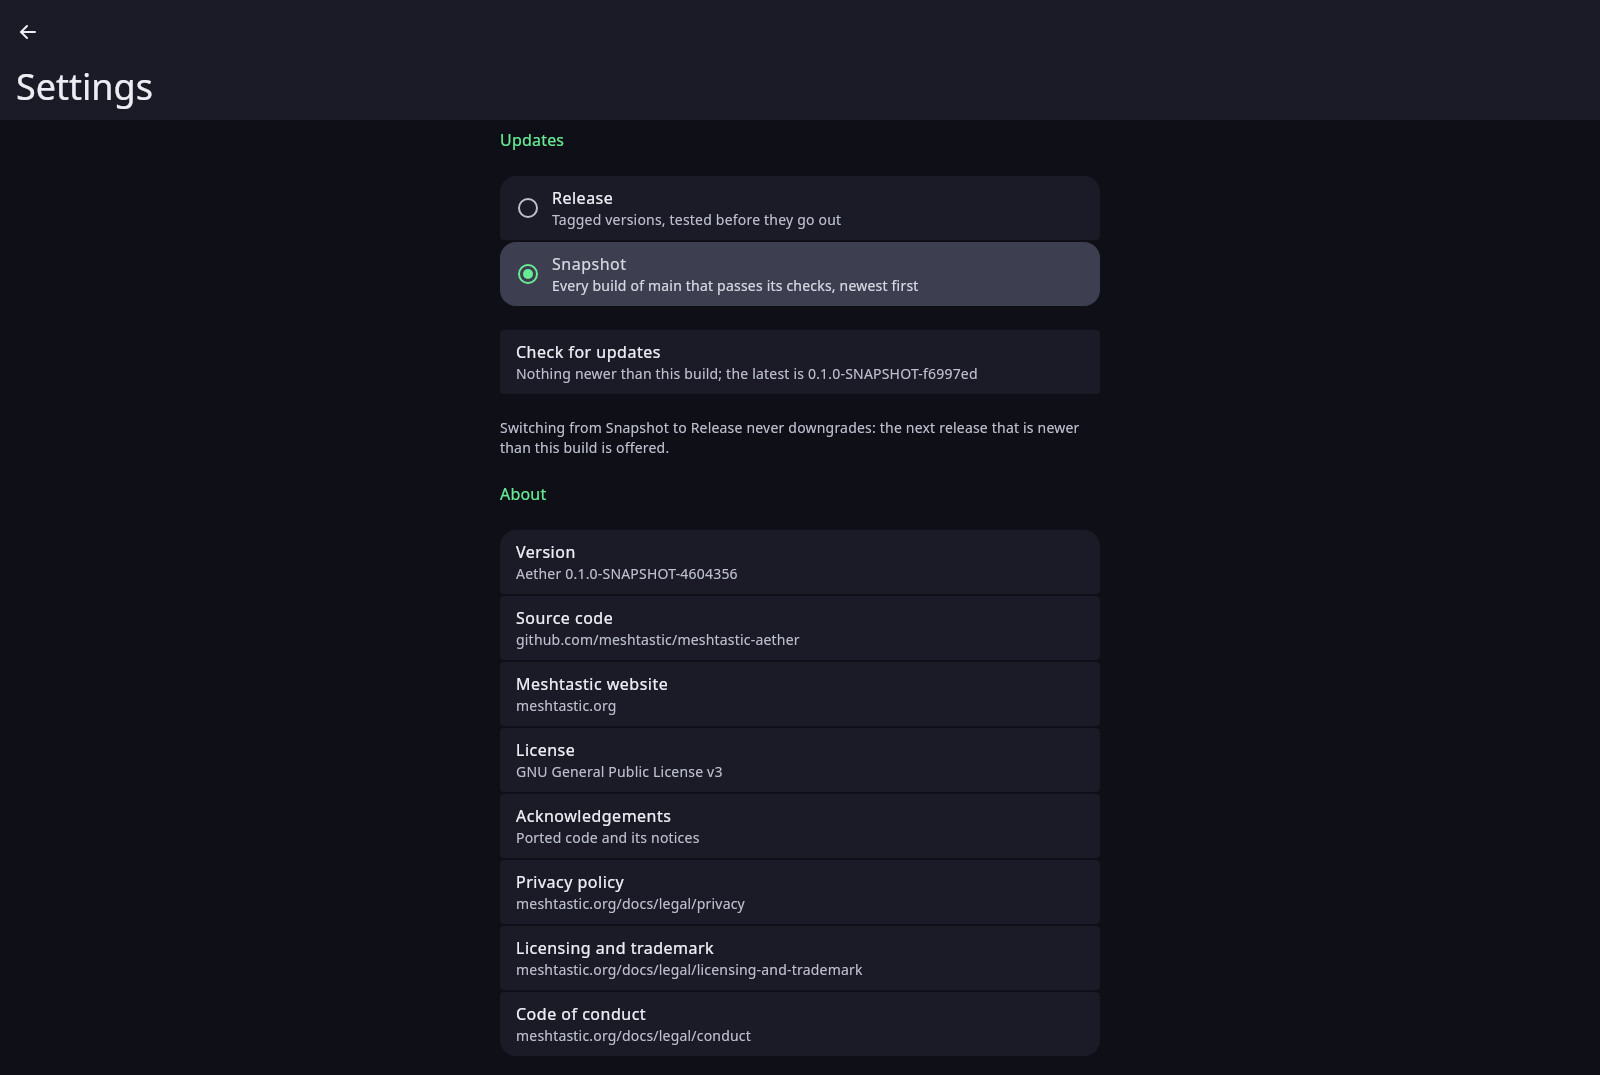
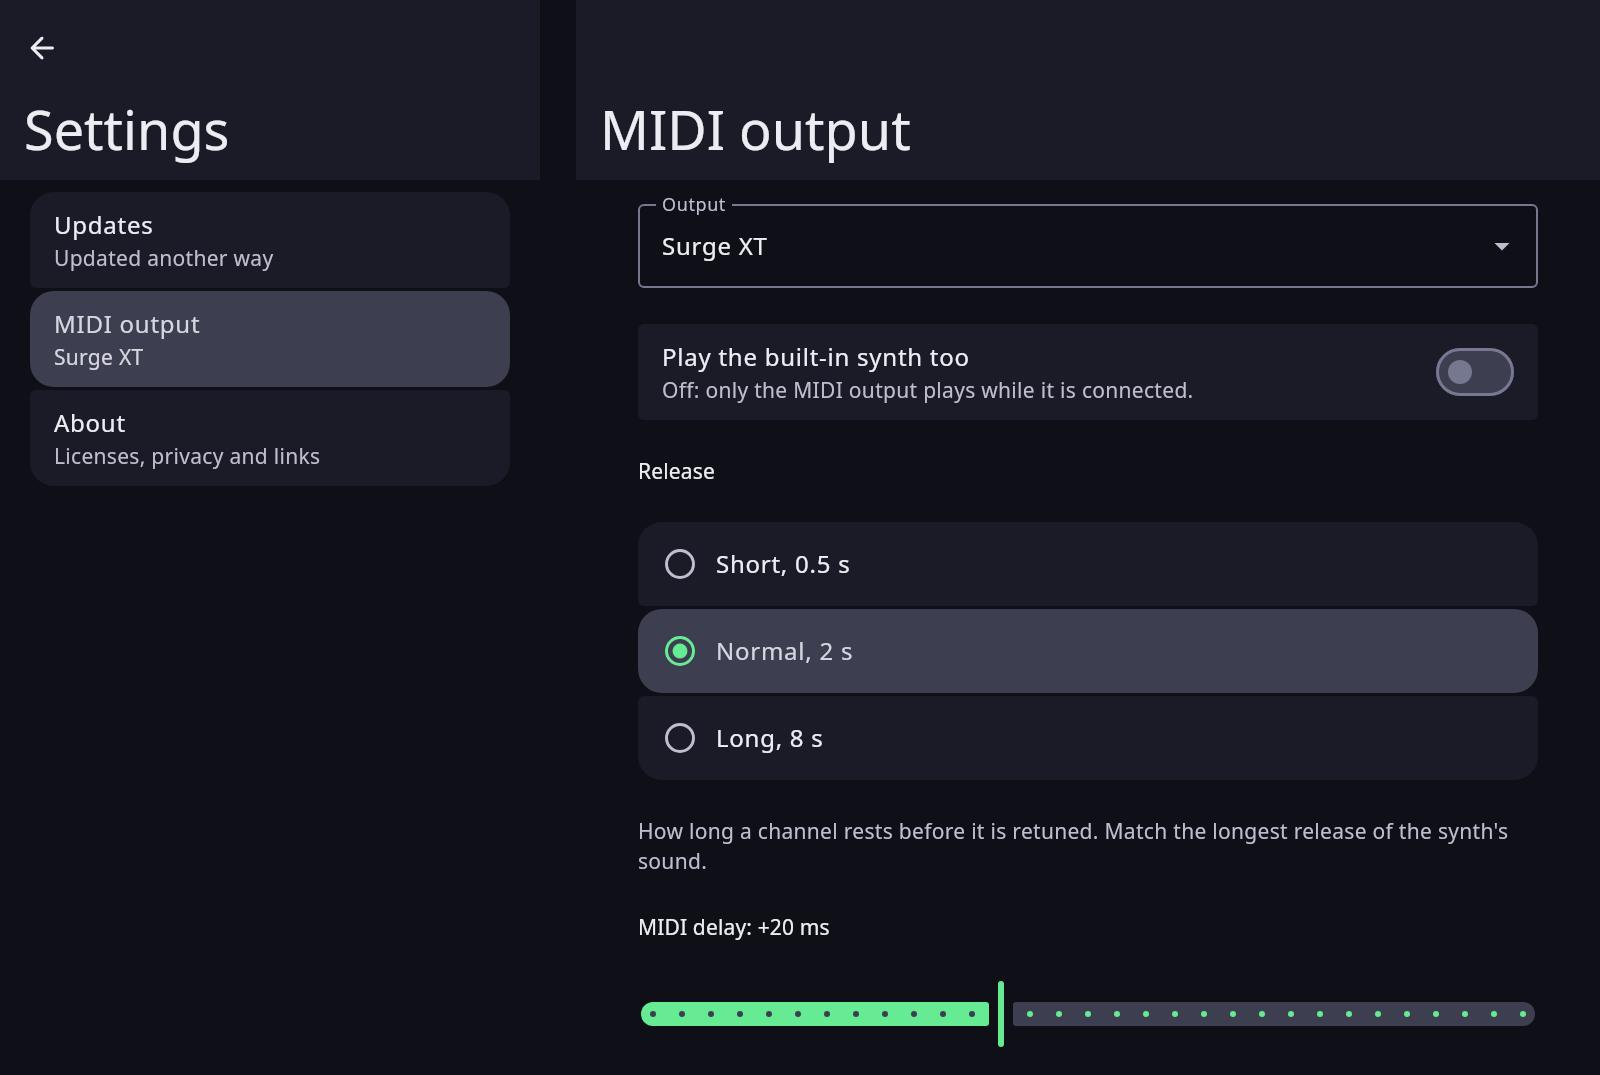
docs: MIDI output, the MIDI file export and the Navigation 3 Settings (#32)
The README gets a MIDI output section (what it sends, the Settings choices,
virtual ports per OS), the `--midi` flags, the `tools midi` line, the MIDI
choices in the privacy note and a Settings still of the list-detail.
`AGENTS.md` maps `shared/src/midi`, the Navigation 3 back stack and the
adaptive Settings; `CONTRIBUTING.md` lists the export; `docs/design.md` says
MIDI output is built on desktop.

diff --git a/AGENTS.md b/AGENTS.md
@@ -43,18 +43,20 @@ This project uses the [Kotlin Toolchain](https://kotlin-toolchain.org/) (a dedic
 - `shared/src/mood`: `MeshMood` folds events into slow, self-normalized signals and the rotation target; `ParamValues` is the immutable result that the composer, scene and overlay read, with a value, unit and driver per parameter and the rotation direction and its strength. Neutral equals the constants it replaced.
 - `shared/src/music`: the pure, deterministic `Composer` (theory, harmony, form, day, weather, ornaments); mesh activity, SNR and channel utilization come from `MeshMood`, not a separate crowd model. It schedules by sample frame.
 - `shared/src/synth`: pure Kotlin DSP; `Synth` renders `NoteEvent`s and `Texture` changes to stereo float blocks.
-- `shared/src/audio`: `AudioSink` plus the block pump; `shared/src@<platform>/audio` holds the per-platform output.
-- `shared/src/ui`: `AmbientEngine` (owns the clock, composer, synth and sink; each tick carries `composer.params()` to the scene and the overlay's Drivers panel; feeds `Coverage` and logs its line), connect screen, controls, the HUD overlay, settings.
+- `shared/src/audio`: `AudioSink` plus the block pump; `shared/src@<platform>/audio` holds the per-platform output. `playbackTimestamp()` pairs the playback frame with the monotonic time it was read, for the MIDI clock.
+- `shared/src/midi`: MIDI output. `MidiMapper` sends each `NoteEvent` as the nearest key plus a pitch bend on an MPE member channel that carries only that offset (bend range 48, or 2 for plain channels): the bend leads the note by 50 ms, a sounding channel is never re-bent, bed re-strikes carry on as the synth's do, and a note that cannot get a channel at its bend falls back to the nearest one, counted. `MidiClock` maps a frame to when the sink plays it; `MidiLiveOutput` drains the mapper 100 ms behind the frame the engine has rendered onto a `MidiOutput`, which on desktop is `javax.sound.midi` with a send thread and a shutdown hook that ends the notes it sent (no output elsewhere yet). `StandardMidiFile` writes the `tools` export.
+- `shared/src/ui`: `AmbientEngine` (owns the clock, composer, synth and sink, and opens the MIDI output `EngineOptions` names when it runs; each tick carries `composer.params()` to the scene and the overlay's Drivers panel; feeds `Coverage` and logs its line), connect screen, controls, the HUD overlay, Settings (a list of topics, each a detail pane).
+- `shared/src/App.kt` and `AppNav.kt`: the screens are a Navigation 3 back stack of `Screen` keys (a `mutableStateListOf`, no saved state) that follows the session, so the scene stands alone while one plays. Settings is a list-detail scene from `adaptive-navigation3`; the strategy and the panes read one `calculatePaneScaffoldDirective(currentWindowAdaptiveInfo())`.
 - `shared/src/visual`: scene model and drawing, driven by the engine's events and the sink's playback frame. `SpatialFrame` is the same cloud for a headset or AR view, which has no `DrawScope`: flat sprite and line arrays in metres around a viewer standing on the anchor (x right, y up, north at -z, floor at y 0), drawn additively. A host offers the view through `HostWindow.onEnterSpatial` and ends it when the `SpatialSource` closes with the session. `webApp/resources/spatial.js` is the WebXR host. `androidApp/src/XrSpatial.kt` is the Android XR host: SceneCore has no additive blend, lines or sprites, so `SpatialMesh` turns the frame into premultiplied fans and ribbons that face the eye, uploaded into one dynamic mesh each frame over a dark environment. It needs spatial API 3 (an API 1 system aborts on the first mesh update), makes its XR session on the first press, and R8 needs `androidApp/r8/extensions-xr-1.5.0.jar` as a library jar or the release build aborts at session creation.
 - `shared/src/log`: `Log` with a file sink on desktop, logcat on Android.
 - `shared/src/update`: `Channel` (`BuildInfo` is generated by `plugins/build-info`), the `update.properties` manifest and the `Updater` contract; `src@updatable` (jvm and android) fetches and verifies, `src@android` installs through `PackageInstaller` (never for an app store install), `src@jvm` swaps the executable jar and restarts (never for an app installed from a deb, dmg or msi, which `jpackage.app-path` marks). iOS, the web and local builds have no updater. `AETHER_UPDATE_MANIFEST` points the check at another manifest for testing.
-- Apps: `desktopApp`, `androidApp`, `iosApp`, `webApp`. Tools: `tools` (offline render, analyze and video), `blescan` (Bluetooth scan check).
+- Apps: `desktopApp`, `androidApp`, `iosApp`, `webApp`. Tools: `tools` (offline render, analyze, video and MIDI export), `blescan` (Bluetooth scan check).
 - `plugins/build-info`: a local Toolchain plugin that generates `BuildInfo` into `shared` from `AETHER_BUILD_LABEL`, `AETHER_BUILD_CODE` and `AETHER_BUILD_CHANNEL`, set together in CI; unset, a build is `dev`, code 0, channel `DEV`.
 - `plugins/detekt`: the Toolchain's detekt plugin, applied through `detekt.module-template.yaml` to the modules with a JVM target (`shared`, `desktopApp`, `tools`, `blescan`). It reads a module's JVM sources, so `src@android`, `src@ios` and `src@wasmJs` go unchecked. `detekt.yml` keeps detekt's defaults except settings that fit a rule to this project: a finding is fixed in code, never baselined or switched off. A `@Suppress` sits only on the one expression it covers, with a comment saying why (two catch-all boundaries today).
 
 The contracts `MeshEvent.kt`, `NoteEvent.kt` and `AudioSink.kt` change only on purpose, with every consumer updated.
 
-Launch flags: `--demo`, `--replay`, `--tcp host[:port]`, `--serial PORT`, `--ask`, `--fullscreen`, `--look standard|projector|oled` (`shared/src/ui/LaunchArgs.kt`); `--ask` shows the connect screen and ignores the saved link and any `--demo`, `--replay`, `--tcp` or `--serial`. Volume, mute, the headphone mode and the look persist in `Settings`; the master fades in over 3 s each session. Android takes the same flags as intent extras (`launchArgsFrom` in `androidApp/src/MainActivity.kt`).
+Launch flags: `--demo`, `--replay`, `--tcp host[:port]`, `--serial PORT`, `--ask`, `--fullscreen`, `--look standard|projector|oled`, `--midi NAME` (`shared/src/ui/LaunchArgs.kt`), and `--midi-list` on desktop (`desktopApp/src/main.kt` prints the outputs and exits); `--ask` shows the connect screen and ignores the saved link and any `--demo`, `--replay`, `--tcp` or `--serial`, and `--midi` names the output in place of the saved one. Volume, mute, the headphone mode, the look and the MIDI choices persist in `Settings`; the master fades in over 3 s each session. Android takes the same flags as intent extras (`launchArgsFrom` in `androidApp/src/MainActivity.kt`).
 
 ## UI rules
 
@@ -81,6 +83,7 @@ Launch flags: `--demo`, `--replay`, `--tcp host[:port]`, `--serial PORT`, `--ask
 ./kotlin run -m desktopApp
 ./kotlin run -m tools -- sparse 1 /tmp/sparse.wav
 ./kotlin run -m tools -- video 90 /tmp/demo.mp4      # needs ffmpeg
+./kotlin run -m tools -- midi 3600 /tmp/mesh.mid
 ./kotlin run -m blescan -- 15
 ```
 

diff --git a/README.md b/README.md
@@ -29,17 +29,17 @@ The HUD over the same mesh, with the Drivers panel listing what the mesh is doin
 
 ![The HUD with the status card, toolbar and Drivers panel](docs/screenshots/hud.jpg)
 
-The connect screen, with the settings cog at the top right, and the settings screen with the update track and the project links:
+The connect screen, with the settings cog at the top right, and Settings on a wide window, its topics beside the one open:
 
 ![The connect screen with its link types and the settings cog](docs/screenshots/connect.jpg)
 
-![The settings screen with the Release and Snapshot tracks and the About links](docs/screenshots/settings.jpg)
+![Settings with the Updates, MIDI output and About topics beside the MIDI output section](docs/screenshots/settings.jpg)
 
 ## Run
 
 ```sh
 ./kotlin run -m desktopApp                      # desktop
-./kotlin run -m desktopApp -- --fullscreen      # also: --demo, --replay, --tcp host[:port], --serial PORT, --ask, --look standard|projector|oled
+./kotlin run -m desktopApp -- --fullscreen      # also: --demo, --replay, --tcp host[:port], --serial PORT, --ask, --look standard|projector|oled, --midi NAME, --midi-list
 ./kotlin run -m webApp                          # browser; tap to start audio
 ./kotlin run -m androidApp                      # device or emulator
 ./kotlin run -m iosApp                          # Mac only
@@ -147,6 +147,17 @@ The icon is its own glyph in the brand palette: a luminous green orb with a tilt
 
 The app is dark-only by design: it is a calm projector and night piece. The design standards ask for light and dark themes and for dynamic color on Android 12+, and both are waived here. The app is called `Aether`, never `Meshtastic Aether`: `Meshtastic` names the network, the project and the mark, and the identifiers (`org.meshtastic.aether`, the `meshtastic-aether` repository and file names, the `MeshtasticAether` log folder and tag) keep the long form.
 
+## MIDI output
+
+The desktop app can play the music to a MIDI output as well, for a software synth or a DAW: pick it under Settings > MIDI output, or name it at launch with `--midi NAME` (the output whose name is or contains NAME; `--midi-list` prints them). Each note keeps its just-intonation pitch: it goes out as the nearest key plus a pitch bend, on an MPE member channel that carries only that offset. The receiver needs MPE on channels 2 to 16 with a bend range of 48 semitones, which Aether sends when it opens the port.
+
+- Play the built-in synth too: off by default, so only the output plays while it is open. An output that fails to open leaves the built-in synth playing.
+- Release: how long a channel rests before Aether retunes it. Match the longest release of the synth's sound.
+- MIDI delay: raise it if the MIDI synth sounds before the built-in one.
+- The viewer's mute ends every MIDI note and sends none until unmuted; the volume scales velocity. Ending the session or quitting ends every note sent.
+
+A software synth needs a virtual port: the IAC Driver in Audio MIDI Setup on macOS, a loopback port such as loopMIDI on Windows, or `snd-virmidi` on Linux (`sudo modprobe snd-virmidi`, then `aconnect` it to the synth). Settings lists the outputs each time it opens. Android, iOS and the web have no MIDI output.
+
 ## Logs
 
 Desktop writes `aether.log` (and stdout) to `$XDG_STATE_HOME/meshtastic-aether/` or `~/.local/state/meshtastic-aether/` on Linux and `~/Library/Logs/MeshtasticAether/` on macOS, and keeps one older generation as `aether.log.1`. Android logs to logcat under `MeshtasticAether`, and web logs to the browser console.
@@ -159,6 +170,7 @@ The log records the session link, link state changes, Bluetooth scan results, fa
 ./kotlin run -m tools -- sparse 1 /tmp/sparse.wav   # silent | sparse | busy, hours, output [seed] [--at <UTC instant>]
 ./kotlin run -m tools -- analyze /tmp/sparse.wav    # per-window peak, RMS, clipping, centroid, LUFS, low band, pulse, rests
 ./kotlin run -m tools -- video 90 /tmp/demo.mp4     # the app's engine and scene rendered offline to H.264 and AAC (needs ffmpeg)
+./kotlin run -m tools -- midi 3600 /tmp/mesh.mid    # the composer's notes as a Standard MIDI File (MPE; --range 2, --layout two, --nodes, --speed, --at)
 ./kotlin run -m blescan -- 15                       # scan for nodes for 15 s, print what is found
 ```
 
@@ -174,7 +186,7 @@ The render tool runs the simulated mesh through the composer and synth offline. 
 
 ## Updates and privacy
 
-Aether only listens: it sends nothing to the mesh. It keeps the saved link, the last link type, the volume, mute, headphone mode and look on the device, and writes a local log. Android and desktop builds from [Releases](https://github.com/meshtastic/meshtastic-aether/releases) check this repository's releases for a newer build shortly after launch and then daily, and download one only when asked. A release build follows releases and a snapshot build follows snapshots until Settings (the cog on the connect screen) picks the other track; Settings also checks on demand. Store installs, iOS, the web build and local builds never check.
+Aether only listens: it sends nothing to the mesh. It keeps the saved link, the last link type, the volume, mute, headphone mode, look and MIDI choices on the device, and writes a local log. MIDI goes only to an output on the same computer. Android and desktop builds from [Releases](https://github.com/meshtastic/meshtastic-aether/releases) check this repository's releases for a newer build shortly after launch and then daily, and download one only when asked. A release build follows releases and a snapshot build follows snapshots until Settings (the cog on the connect screen) picks the other track; Settings also checks on demand. Store installs, iOS, the web build and local builds never check.
 
 ## Verified on
 

diff --git a/docs/design.md b/docs/design.md
@@ -15,14 +15,13 @@ Here the mesh is the lobby. The app plays a slow autonomous piece that sounds go
 - Generative audio synthesized in shared Kotlin, with per-platform output only.
 - A full-screen ambient visual driven by the same events and clock as the audio.
 - Simulated, demo and replayed meshes on every target, for development, demos and listening tests without a node.
-- Note events go through a seam so a MIDI or OSC output can be added without touching the composer.
+- Note events go through a seam: the synth and the MIDI output both take the composer's notes.
 
 ## Non-goals
 
-- MIDI or OSC output. The seam exists; an implementation does not.
 - Sending anything to the mesh. The app is listen-only.
 - Multi-speaker spatial installs. Output is stereo, and pan stands in for the nearest speakers.
-- Stored history, accounts or settings sync. The app keeps only the saved link, the volume and mute, the headphone mode and the palette choice, on the device.
+- Stored history, accounts or settings sync. The app keeps only the saved link, the volume and mute, the headphone mode, the palette choice and the MIDI choices, on the device.
 - App store publishing.
 - A web kiosk mode.
 
@@ -51,8 +50,8 @@ Here the mesh is the lobby. The app plays a slow autonomous piece that sounds go
 ## Decisions
 
 1. Synth in shared Kotlin, with a thin per-platform PCM sink. It is self-contained on every target and testable offline; the sound is limited to what the repository writes.
-2. MIDI or OSC out to an external synth was rejected. It gives the best sound but is effectively desktop-only and needs external setup per install.
-3. Synth in shared Kotlin with a note-event seam, so MIDI or OSC can be added later. This is the chosen design.
+2. MIDI out is an addition to the built-in synth, never a replacement: a synth app or DAW can sound better, but it needs setup per install and works only on desktop today. On desktop the composer's notes can also go to a MIDI output, each as the nearest key plus a pitch bend on its own MPE channel, with the built-in synth muted by default while it plays.
+3. Synth in shared Kotlin with a note-event seam, which the MIDI output also takes.
 4. Every audio sink is an `expect`/`actual` on platform APIs with no third-party audio library. kc-audio-bridge (Apache-2.0) is reference reading only.
 5. The Kotlin Toolchain is the build tool, with Gradle as the fallback.
 6. The piece is autonomous with long-form harmonic movement, perturbed by the mesh. A note per packet over a static drone is one drone for hours at a few packets a minute.
@@ -216,7 +215,8 @@ Built:
 - SDK, simulated, replay and demo sources; a connect screen with TCP, Bluetooth, USB serial, WebSocket and a saved link with auto-connect.
 - Clouds-topology reverb, polyBLEP, FM, modal, Karplus-Strong and pitch-shifter voices in pure Kotlin.
 - An update check on Android and desktop with a Release or Snapshot track in Settings, desktop installers (deb, dmg, msi) and a web build deployed from every snapshot.
-- A file log on desktop, an overlay with key controls, and the `tools` render, analyze and video commands.
+- A file log on desktop, an overlay with key controls, and the `tools` render, analyze, video and MIDI export commands.
+- MIDI output on desktop: `--midi` and a Settings section, timed to the audio sink, ending every note on stop or exit. Settings is a list-detail of topics on a Navigation 3 back stack, laid out by the window.
 - Mesh-driven parameters, pass 1: the per-event layer and palettes, `MeshMood` with `ParamValues`, rotation (speed, tilt and wobble, direction), gravity and orbits, the coverage log, the overlay Drivers panel and the demo sweep. A 6 hour run on a Mac against a real mesh held 59.9 fps and 340 MB with no warnings; no person has judged the sound or the visuals from it.
 
 Not built:
@@ -224,5 +224,5 @@ Not built:
 - Mesh-driven parameters, pass 2: the landscape mappings beyond those built (reverb, brightness, detune, ensemble, echo, ornament TTL, pad level, haze, background hue and the rest of the Layer 2 table), which wait on coverage data.
 - A desktop capture mode; replay plays a bundled synthetic capture.
 - WebSerial.
-- MIDI and OSC output.
+- MIDI output on Android, iOS and the web, MIDI texture controllers, MIDI hot-plug while Settings is open, and an OSC output.
 - A run of iOS on a device, of web in a browser past the connect screen, and of Android on a phone or tablet (Android TV has run on a Chromecast with Google TV).

diff --git a/CONTRIBUTING.md b/CONTRIBUTING.md
@@ -73,6 +73,7 @@ cd meshtastic-aether
 | Run the web app | `./kotlin run -m webApp` |
 | Render the simulated mesh to a WAV file | `./kotlin run -m tools -- sparse 1 /tmp/sparse.wav` |
 | Render a demo video offline (needs ffmpeg) | `./kotlin run -m tools -- video 90 /tmp/demo.mp4` |
+| Export the simulated mesh as a MIDI file | `./kotlin run -m tools -- midi 3600 /tmp/mesh.mid` |
 | List the modules | `./kotlin show modules` |
 
 [`README.md`](README.md) lists the launch flags and the other run targets.
